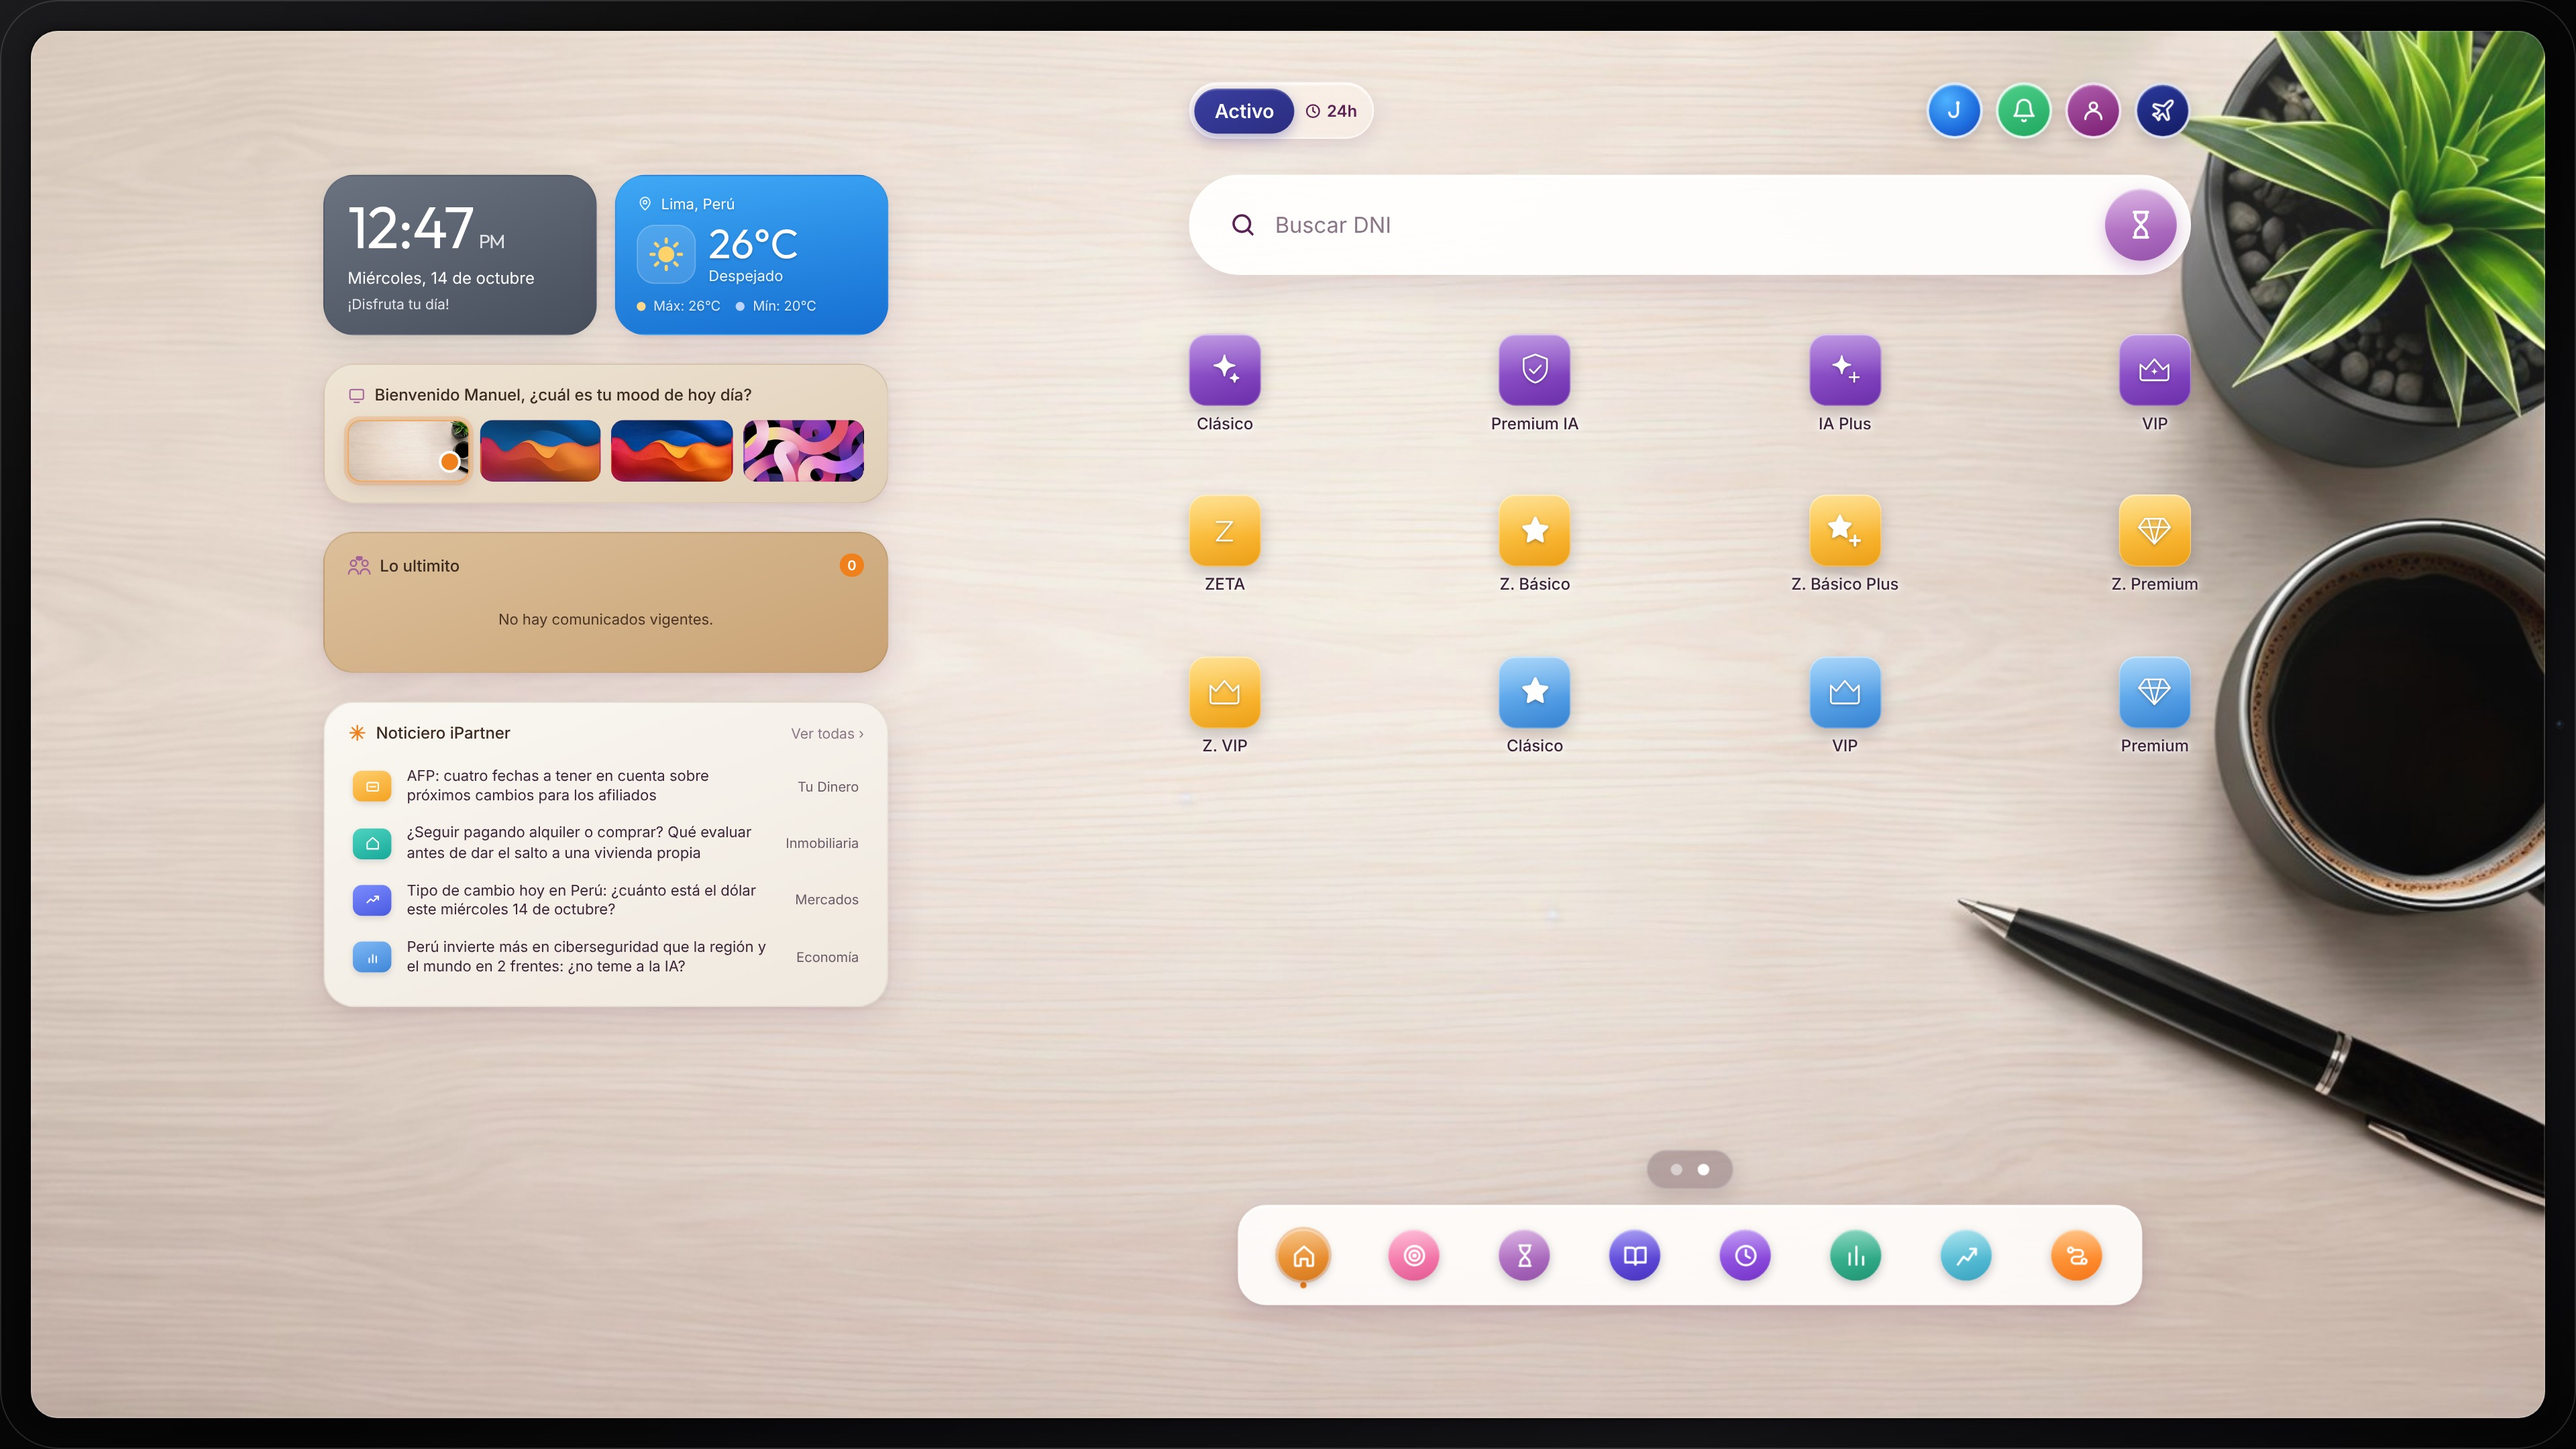
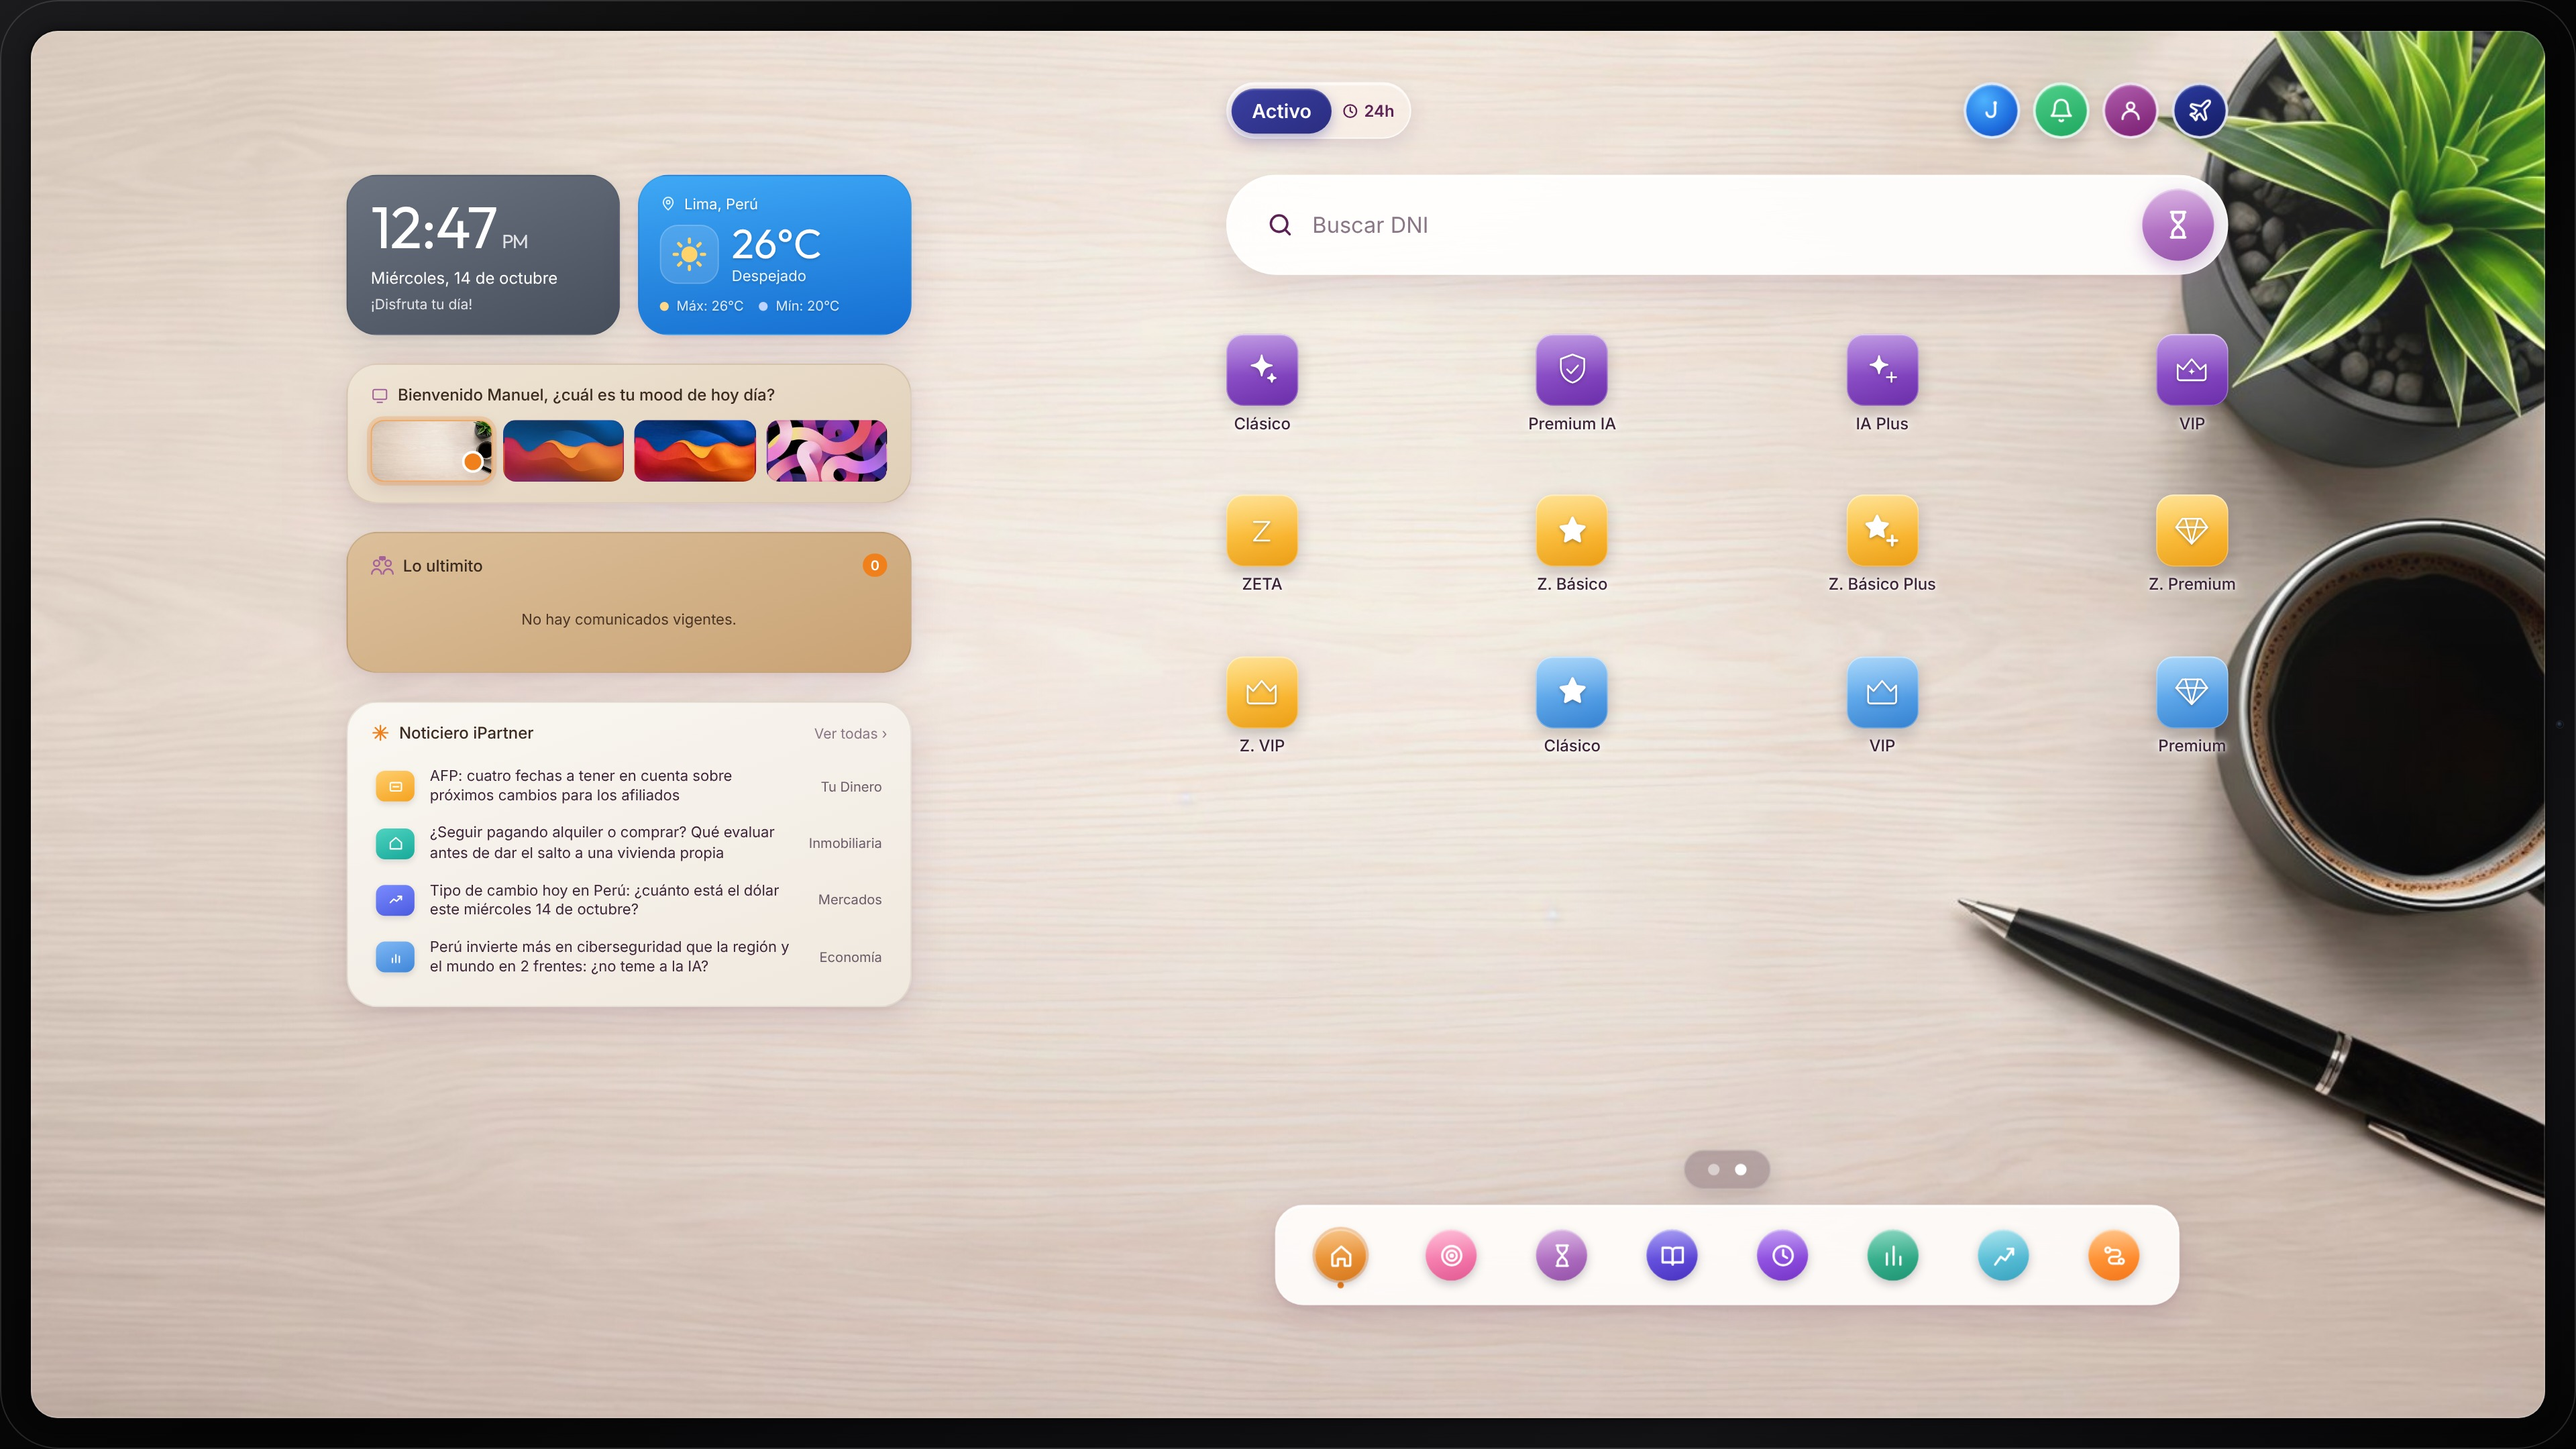
Home: espacios iguales medidos desde el borde visible de la pantalla
Borde visible → widgets → íconos y barra → borde visible: 245px cada uno
en 1920x1080.

Claude-Session: https://claude.ai/code/session_01KT8NTYu2Ge9wagQ7cc8Njn

diff --git a/home/propuestas/ipartner-home-espacios-iguales.html b/home/propuestas/ipartner-home-espacios-iguales.html
@@ -1123,8 +1123,8 @@ header .sesion{grid-column:2;justify-self:center!important;width:780px;justify-c
 /* Columna central centrada: mismo espacio a cada lado */
 .zona,header .sesion,nav{position:relative;left:-16px}
 /* Tres espacios iguales: borde → panel → columna → borde */
-.panel{position:relative;left:169px}
-.zona,header .sesion,nav{left:69px!important}
+.panel{position:relative;left:187px}
+.zona,header .sesion,nav{left:98px!important}
 
 </style>
 </head>
